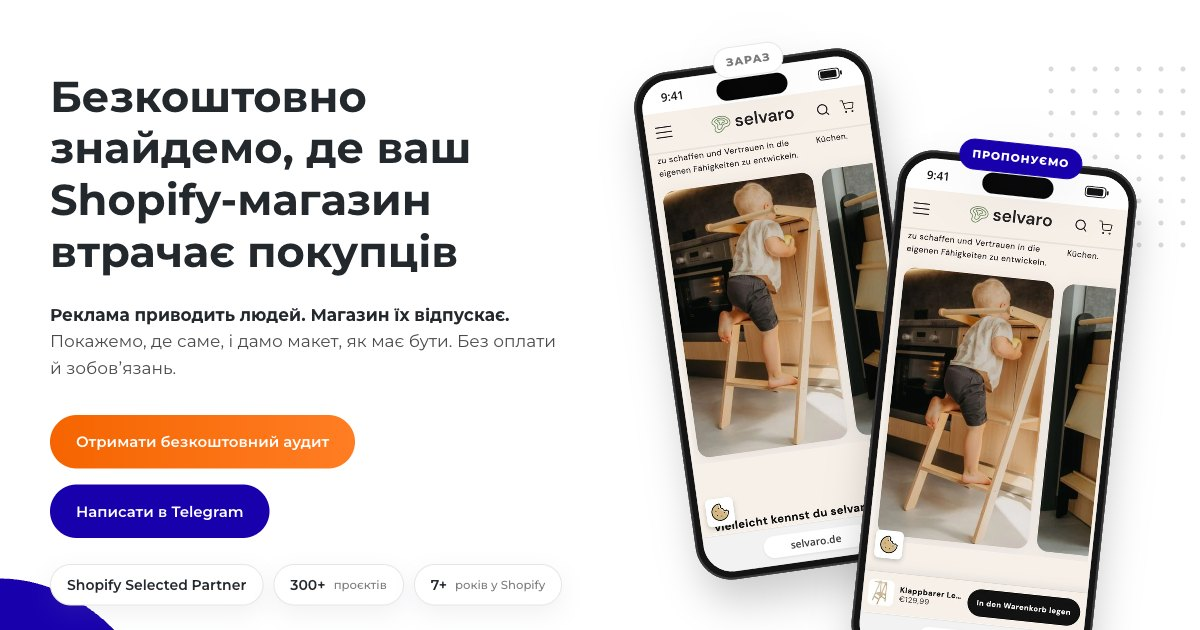
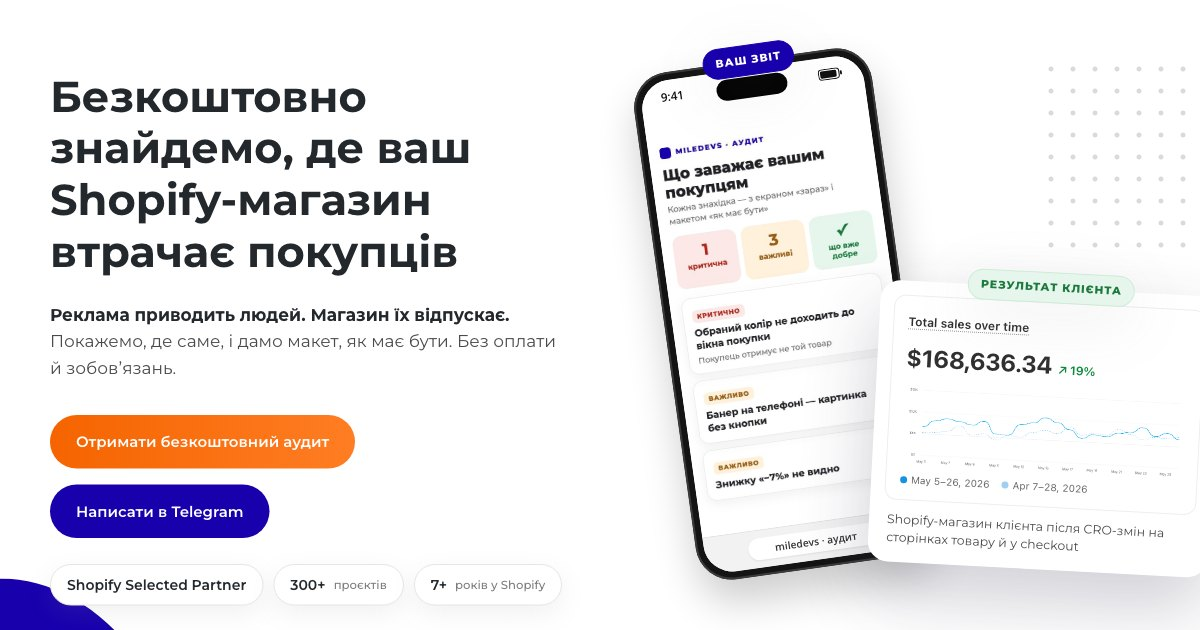
Hero: audit report + client result; what's included; who; UTM in leads

Changed region(s): [[0.5242, 0.1508, 1.0, 1.0], [0.5858, 0.0603, 0.6783, 0.1508]]

diff --git a/index.html b/index.html
@@ -436,6 +436,26 @@ footer{background:#fff;border-top:1px solid var(--grey);padding:34px 0 26px;colo
 .order .why{color:rgba(255,255,255,.85);font-size:14px;max-width:560px;margin:22px auto 0}
 .order .why b{color:#fff}
 .mcta{display:none}
+.rescard{position:absolute;left:250px;top:250px;width:340px;background:#fff;border-radius:20px;box-shadow:0 30px 70px rgba(50,50,80,.24);padding:14px;transform:rotate(3deg);z-index:2}
+.rescard .lbl{position:absolute;top:-16px;left:50%;transform:translateX(-50%);white-space:nowrap;background:#E7F6EC;color:#1C7A3E;border:1px solid #CDEBD7;border-radius:20px;padding:6px 12px;font-size:11px;font-weight:800;letter-spacing:.08em;text-transform:uppercase;box-shadow:var(--shadow);z-index:3}
+.hero .rescard .rc-cap{font-size:12.5px;line-height:1.45;max-width:none;margin:10px 4px 2px;color:var(--body)}
+.rc-in{background:#fff;border:1px solid #eee;border-radius:12px;padding:12px 14px;font-family:Inter,system-ui,-apple-system,Arial,sans-serif}
+.rc-l{font-size:12px;font-weight:600;border-bottom:1px dotted #999;color:#303030}
+.rc-n{font-size:24px;font-weight:700;margin-top:6px;color:#303030;letter-spacing:-.01em}.rc-n em{font-style:normal;font-size:12px;color:#0a8a3a;margin-left:6px;font-weight:600}
+.rc-in img{width:100%;display:block;margin-top:8px}
+.rc-leg{display:flex;gap:12px;font-size:10px;color:#666;margin-top:6px}.rc-leg b{display:inline-block;width:7px;height:7px;border-radius:50%;background:#1990e3;margin-right:4px}.rc-leg b.o{background:#9fd0f3}
+.rc-cap{font-size:12.5px;color:var(--body);margin:10px 4px 2px;line-height:1.45}
+.inc2{display:grid;grid-template-columns:minmax(0,1.2fr) minmax(0,1fr);gap:28px;align-items:start}
+.checks p{font-size:16px;color:var(--body);line-height:1.6;padding:14px 0;border-top:1px solid var(--grey)}
+.checks p:first-child{border-top:0;padding-top:0}
+.checks b{color:var(--text)}
+.getbox{background:#F1EFFF;border-radius:20px;padding:26px 28px}
+.gb-t{display:block;font-size:19px;color:var(--text);margin-bottom:12px}
+.getbox ul{list-style:none;margin:0;padding:0}
+.getbox li{position:relative;padding:8px 0 8px 26px;font-size:15.5px;color:var(--text);line-height:1.5}
+.getbox li:before{content:"✓";position:absolute;left:0;top:8px;color:#1800ad;font-weight:800}
+@media (max-width:900px){.inc2{grid-template-columns:minmax(0,1fr)}.rescard{left:auto;right:0;top:230px;width:290px}}
+@media (max-width:640px){.rescard{width:220px;top:200px;padding:10px;right:-4px}.rc-n{font-size:17px}.rc-in{padding:9px 10px}.hero .rescard .rc-cap{font-size:11px}.rc-leg{font-size:8.5px;gap:8px}.checks p{font-size:15px}}
 .demo{grid-template-columns:minmax(0,1fr)}
 .demo-phones{order:-1}
 @media (min-width:901px){
@@ -513,8 +533,10 @@ window.MD_GA4_ID='';          /* GA4, напр. 'G-XXXXXXX' */
       </div>
 
       <div class="phones rv" aria-hidden="true">
-        <div class="ph a"><span class="lbl">Зараз</span><div class="phone"><div class="screen"><div class="island"></div><div class="sbar"><span>9:41</span><svg viewBox="0 0 24 11"><rect x=".5" y=".5" width="20" height="10" rx="3" fill="none" stroke="#111"/><rect x="2" y="2" width="16" height="7" rx="1.5" fill="#111"/><rect x="21.5" y="3.5" width="1.8" height="4" rx=".9" fill="#111"/></svg></div><div class="view"><img class="shot" src="img/selvaro-sticky-now.jpg" alt=""></div><div class="url"><span>selvaro.de</span></div></div></div></div>
-        <div class="ph b"><span class="lbl on">Пропонуємо</span><div class="phone"><div class="screen"><div class="island"></div><div class="sbar"><span>9:41</span><svg viewBox="0 0 24 11"><rect x=".5" y=".5" width="20" height="10" rx="3" fill="none" stroke="#111"/><rect x="2" y="2" width="16" height="7" rx="1.5" fill="#111"/><rect x="21.5" y="3.5" width="1.8" height="4" rx=".9" fill="#111"/></svg></div><div class="view"><img class="shot" src="img/selvaro-sticky-new.jpg" alt=""></div><div class="url"><span>selvaro.de</span></div></div></div></div>
+        <div class="ph a"><span class="lbl on">Ваш звіт</span><div class="phone"><div class="screen"><div class="island"></div><div class="sbar"><span>9:41</span><svg viewBox="0 0 24 11"><rect x=".5" y=".5" width="20" height="10" rx="3" fill="none" stroke="#111"/><rect x="2" y="2" width="16" height="7" rx="1.5" fill="#111"/><rect x="21.5" y="3.5" width="1.8" height="4" rx=".9" fill="#111"/></svg></div><div class="view"><img class="shot" src="img/hero-report.jpg" alt="Приклад звіту аудиту" alt=""></div><div class="url"><span>miledevs · аудит</span></div></div></div></div>
+        <div class="rescard"><span class="lbl">Результат клієнта</span>
+          <div class="rc-in"><span class="rc-l">Total sales over time</span><div class="rc-n">$168,636.34<em>↗ 19%</em></div><img src="img/results-chart.png" alt=""><div class="rc-leg"><span><b></b>May 5–26, 2026</span><span><b class="o"></b>Apr 7–28, 2026</span></div></div>
+          <p class="rc-cap">Shopify-магазин клієнта після CRO-змін на сторінках товару й у checkout</p></div>
       </div>
     </div>
   </div>
@@ -562,8 +584,8 @@ window.MD_GA4_ID='';          /* GA4, напр. 'G-XXXXXXX' */
         <p>Перед сезоном чи більшим рекламним бюджетом кожен відсоток конверсії множиться на весь трафік.</p>
       </div>
       <div class="card rv">
-        <h3>Магазинам, де часто кидають кошик</h3>
-        <p>Товар додають, а до оплати не доходять. Знайдемо, що заважає на шляху до checkout.</p>
+        <h3>Магазинам, що переїжджають на Shopify</h3>
+        <p>Перевіримо поточний сайт, щоб на новому не повторити тих самих помилок.</p>
       </div>
       <div class="card center rv">
         <h3>Не впевнені, що справа в сайті? Надішліть адресу — скажемо чесно.</h3>
@@ -577,11 +599,24 @@ window.MD_GA4_ID='';          /* GA4, напр. 'G-XXXXXXX' */
 <section class="inc" id="included">
   <div class="wave r" aria-hidden="true"><svg viewBox="0 0 300 1300" preserveAspectRatio="none"><path d="M300 0 C 200 20, 70 160, 80 400 C 90 620, 230 660, 218 840 C 206 1020, 110 1060, 130 1180 C 150 1260, 240 1280, 300 1300 Z"/></svg></div>
   <div class="wrap">
-    <div class="title"><h2>Що ви отримуєте</h2><p class="sub">Аудит, з яким можна одразу йти в роботу — з нами або зі своїм розробником.</p></div>
-    <div class="benefits">
-      <div class="bcard rv"><i><svg viewBox="0 0 24 24" fill="none" stroke="currentColor" stroke-width="1.9" stroke-linecap="round" stroke-linejoin="round"><path d="M2 12s3.5-6 10-6 10 6 10 6-3.5 6-10 6S2 12 2 12z"/><circle cx="12" cy="12" r="3"/></svg></i><b>Бачите, де губляться покупці</b><p>Реальні екрани вашого сайту з поясненням, що саме не так і чому це коштує продажів.</p></div>
-      <div class="bcard rv"><i><svg viewBox="0 0 24 24" fill="none" stroke="currentColor" stroke-width="1.9" stroke-linecap="round" stroke-linejoin="round"><rect x="3" y="4" width="18" height="16" rx="3"/><path d="M3 10h18M9 20v-10"/></svg></i><b>Отримуєте макет, як має бути</b><p>Не «зробіть краще», а готовий екран для кожної проблеми — його можна одразу віддати в роботу.</p></div>
-      <div class="bcard rv"><i><svg viewBox="0 0 24 24" fill="none" stroke="currentColor" stroke-width="1.9" stroke-linecap="round" stroke-linejoin="round"><path d="M8 6h13M8 12h13M8 18h13"/><path d="M3 6h.01M3 12h.01M3 18h.01"/></svg></i><b>Знаєте, що робити першим</b><p>Критичне окремо від важливого. Пріоритети розставлені — ви не гадаєте, з чого почати.</p></div>
+    <div class="title"><h2>Що входить в аудит</h2></div>
+    <div class="inc2">
+      <div class="checks rv">
+        <p><b>Шлях покупця з телефона й компʼютера:</b> головна, каталог, картка товару, кошик, оформлення.</p>
+        <p><b>Швидкість:</b> вимірюємо, як сайт завантажується на телефоні (Core Web Vitals).</p>
+        <p><b>Довіра й офер:</b> ціни, знижки, доставка, відгуки, тексти, кнопки.</p>
+        <p><b>Конкуренти:</b> як ту саму задачу вирішують 10 магазинів вашої ніші.</p>
+        <p><b>Технічні дрібниці:</b> биті посилання, порожні блоки, помилки теми.</p>
+      </div>
+      <div class="getbox rv">
+        <b class="gb-t">Ви отримуєте</b>
+        <ul>
+          <li>Звіт-сторінку: кожна проблема — реальний екран і макет «як має бути»</li>
+          <li>Пріоритети: критичне, важливе, дрібне</li>
+          <li>Список того, що вже працює добре — його не чіпаємо</li>
+          <li>План впровадження — з нами або з вашим розробником</li>
+        </ul>
+      </div>
     </div>
   </div>
 </section>
@@ -595,25 +630,6 @@ window.MD_GA4_ID='';          /* GA4, напр. 'G-XXXXXXX' */
       <div class="step rv"><div class="num">1</div><div class="box"><h3>Заявка</h3><p>Залишаєте адресу сайту. Доступи не потрібні.</p></div></div>
       <div class="step rv"><div class="num">2</div><div class="box"><h3>Аудит</h3><p>Проходимо сайт як покупець — з телефона й компʼютера.</p></div></div>
       <div class="step rv"><div class="num">3</div><div class="box"><h3>Звіт</h3><p>Надсилаємо сторінку зі знахідками й макетами. Якщо захочете — коротко пройдемо її разом.</p></div></div>
-    </div>
-  </div>
-</section>
-
-<!-- CASES -->
-<section class="cases" id="cases">
-  <div class="wrap">
-    
-    <div class="title"><h2>Цифри замість обіцянок</h2></div>
-    <div class="tcards one">
-      <div class="tcard chart rv">
[1 lines of base64/hex data omitted]
-        <div class="body">
-          <p class="quote" style="font-style:normal">$168 636 за 5–26 травня 2026 — на 19 % більше, ніж за 7–28 квітня.</p>
-          <div class="name">Shopify-магазин клієнта</div>
-          <div class="role">Total sales over time · <b>Shopify Analytics</b></div>
-          <span class="lab">CRO-зміни на сторінках товару й у checkout</span>
-        </div>
-      </div>
     </div>
   </div>
 </section>
@@ -703,7 +719,8 @@ window.MD_GA4_ID='';          /* GA4, напр. 'G-XXXXXXX' */
     if(!name||!contact||!store){ok.textContent='Заповніть імʼя, контакт і адресу сайту.';ok.classList.add('show');return;}
     var text=['Заявка на безкоштовний CRO-аудит','Імʼя: '+name,'Контакт: '+contact,'Сайт: '+store].join('\n');
     var btn=f.querySelector('button[type=submit]'); btn.disabled=true; btn.textContent='Надсилаємо…';
-    var payload={'Імʼя':name,'Контакт':contact,'Сайт':store,'Сторінка':location.href,_subject:'Нова заявка на безкоштовний CRO-аудит — MileDevs',_template:'table',_captcha:'false'};
+    var q=new URLSearchParams(location.search),src=['utm_source','utm_medium','utm_campaign','utm_content','fbclid'].filter(function(k){return q.get(k)}).map(function(k){return k+'='+q.get(k)}).join(' & ');
+    var payload={'Імʼя':name,'Контакт':contact,'Сайт':store,'Джерело':src||'прямий захід','Сторінка':location.href,_subject:'Нова заявка на безкоштовний CRO-аудит — MileDevs',_template:'table',_captcha:'false'};
     function done(sent){
       tg.href='https://t.me/annserputko?text='+encodeURIComponent(text);
       if(!sent){th.querySelector('h3').textContent='Майже готово';th.querySelector('p').textContent='Не вдалося надіслати форму. Натисніть кнопку нижче — заявка відкриється в Telegram з готовим текстом.';tg.textContent='Надіслати заявку в Telegram';}
